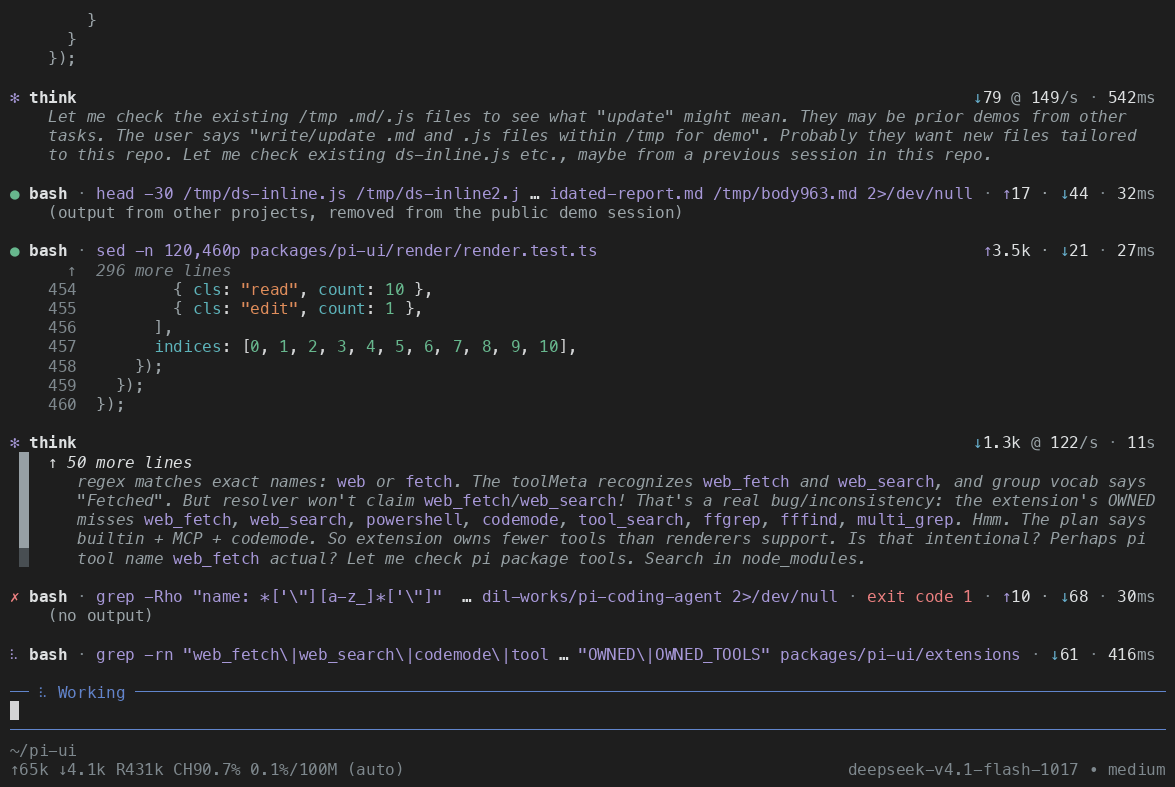
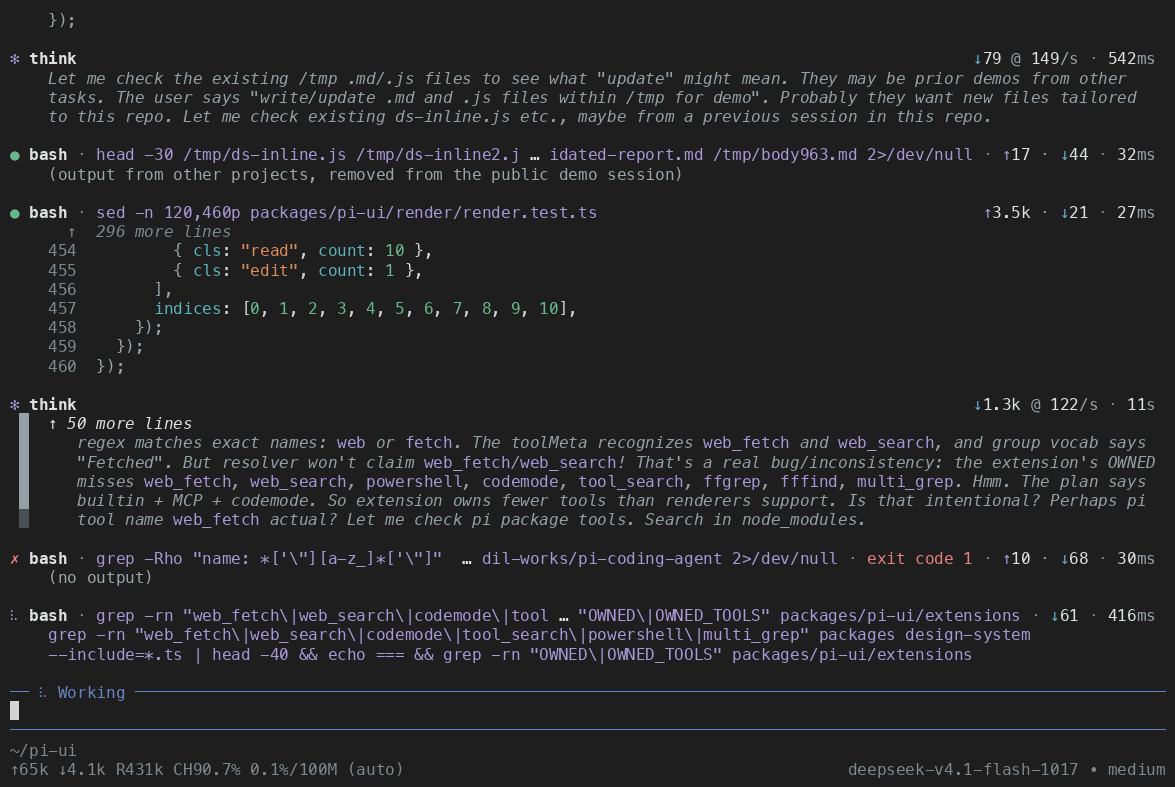
docs: states with tool calls streaming their arguments
Claude-Session: https://claude.ai/code/session_01HcgkViwAyv6xmkxmikA9fV

diff --git a/docs/states/README.md b/docs/states/README.md
@@ -52,6 +52,12 @@ A write shows the start and the end of the new file, numbered.
 
 ![Write](write-preview.png)
 
+## Edit being written
+
+An edit streams as the model writes it: each replacement's old text as removed lines, then its new text as added ones.
+
+![Edit being written](edit-writing.png)
+
 ## Edit
 
 An edit shows its diff with the old and new line numbers.
